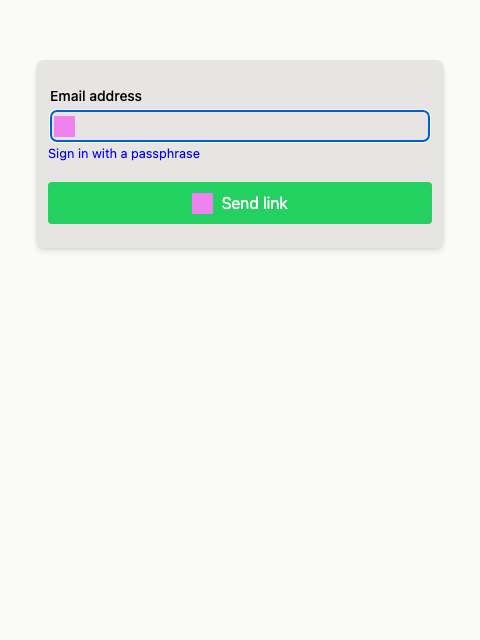
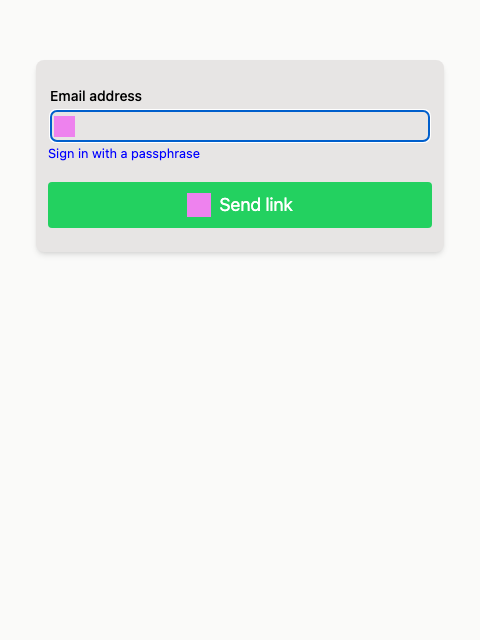
added options to show different providers in different ways

Changed region(s): [[0.0938, 0.2812, 0.9062, 0.375]]

diff --git a/src/lib/views/SocialAuthView.svelte b/src/lib/views/SocialAuthView.svelte
@@ -3,53 +3,20 @@
   import type { Provider, SupabaseClient } from '@supabase/supabase-js'
   import type { AuthTexts } from '../i18n'
   import { messages } from '$lib/messages.svelte';
+  import { providerList } from '$lib/providers'
 
   interface Props {
     supabaseClient: SupabaseClient
     providers: Provider[]
     socialLayout: 'vertical' | 'horizontal'
     socialButtonSize: 'tiny' | 'small' | 'medium' | 'large'
-    socialColors: boolean
     isLinking?: boolean
     getText: (key: keyof AuthTexts, params?: Record<string, any>) => string
   }
 
-  let { supabaseClient, providers, socialLayout, socialButtonSize, socialColors, isLinking, getText }: Props = $props()
+  let { supabaseClient, providers, socialLayout, socialButtonSize, isLinking, getText }: Props = $props()
 
   let loading = $state(false)
-
-  const buttonStyles: Partial<Record<Provider, Record<string, string>>> = {
-    google: {
-      'background-color': '#ce4430',
-      color: 'white',
-    },
-    facebook: {
-      'background-color': '#4267B2',
-      color: 'white',
-    },
-    twitter: {
-      'background-color': '#1DA1F2',
-    },
-    gitlab: {
-      'background-color': '#FC6D27',
-    },
-    github: {
-      'background-color': '#333',
-      color: 'white',
-    },
-    bitbucket: {
-      'background-color': '#205081',
-      color: 'white',
-    },
-    azure: {
-      'background-color': '#0072c6',
-      color: 'white',
-    },
-    discord: {
-      'background-color': '#5865F2',
-      color: 'white',
-    }
-  }
 
   const hasProviders = $derived(providers && providers.length > 0)
 
@@ -74,21 +41,26 @@
     </span>
   {/if}
 
-  <div class="providers flex" class:horizontal={socialLayout == 'horizontal'}>
+  <div class="providers flex" class:horizontal={socialLayout === 'horizontal'}>
     {#each providers as provider}
-      {@const providerName = provider.charAt(0).toUpperCase() + provider.slice(1)}
-      <Button
-        block
-        shadow
-        icon={provider}
-        size={socialButtonSize}
-        style={socialColors ? (buttonStyles[provider] || {}) : {}}
-        onclick={() => handleProviderSignIn(provider)}
-      >
-        {#if socialLayout == 'vertical'}
-          {getText(isLinking ? 'socialLinking' : 'socialSignIn', {provider: providerName})}
-        {/if}
-      </Button>
+      {#if socialLayout === 'vertical'}
+        <Button
+          class="provider-{provider}"
+          block
+          icon={provider}
+          size={socialButtonSize}
+          onclick={() => handleProviderSignIn(provider)}
+        >
+          {getText(isLinking ? 'socialLinking' : 'socialSignIn', {provider: providerList[provider]})}
+        </Button>
+      {:else}
+        <Button
+          class="provider-{provider}"
+          icon={provider}
+          size={socialButtonSize}
+          onclick={() => handleProviderSignIn(provider)}
+        />
+      {/if}
     {/each}
   </div>
 {/if}
@@ -100,6 +72,8 @@
 
   .providers.horizontal {
     flex-direction: row;
+    max-width: 100%;
+    flex-wrap: wrap;
   }
 
   .heading {

diff --git a/src/lib/elements/Icon.svelte b/src/lib/elements/Icon.svelte
@@ -1,26 +1,54 @@
 <script lang="ts">
-  import { KeyIcon, MailIcon, InboxIcon } from 'svelte-feather-icons'
-  import GoogleIcon from '../social-icons/GoogleIcon.svelte'
-  import FacebookIcon from '../social-icons/FacebookIcon.svelte'
-  import TwitterIcon from '../social-icons/TwitterIcon.svelte'
-  import GithubIcon from '../social-icons/GithubIcon.svelte'
-  import GitlabIcon from '../social-icons/GitlabIcon.svelte'
-  import BitbucketIcon from '../social-icons/BitbucketIcon.svelte'
-  import AzureIcon from '../social-icons/AzureIcon.svelte'
-  import DiscordIcon from '../social-icons/DiscordIcon.svelte'
+
+  import key from "virtual:icons/lucide/key"
+  import mail from "virtual:icons/lucide/mail"
+  import inbox from "virtual:icons/lucide/inbox"
+
+  import apple from "virtual:icons/simple-icons/apple"
+  import azure from "virtual:icons/logos/microsoft-icon"
+  import bitbucket from "virtual:icons/logos/bitbucket"
+  import discord from "virtual:icons/logos/discord-icon"
+  import facebook from "virtual:icons/logos/facebook"
+  import figma from "virtual:icons/logos/figma"
+  import fly from "virtual:icons/simple-icons/flydotio"
+  import github from "virtual:icons/logos/github-icon"
+  import gitlab from "virtual:icons/logos/gitlab-icon"
+  import google from "virtual:icons/logos/google-icon"
+  import kakao from "virtual:icons/simple-icons/kakaotalk"
+  import keycloak from "virtual:icons/simple-icons/keycloak"
+  import linkedin from "virtual:icons/logos/linkedin-icon"
+  import notion from "virtual:icons/logos/notion-icon"
+  import slack from "virtual:icons/logos/slack-icon"
+  import spotify from "virtual:icons/logos/spotify-icon"
+  import twitter from "virtual:icons/streamline-logos/x-twitter-logo"
+  import twitch from "virtual:icons/logos/twitch"
+  import workos from "virtual:icons/logos/workos-icon"
+  import zoom from "virtual:icons/logos/zoom-icon"
 
   const map = {
-    mail: MailIcon,
-    key: KeyIcon,
-    inbox: InboxIcon,
-    google: GoogleIcon,
-    facebook: FacebookIcon,
-    twitter: TwitterIcon,
-    github: GithubIcon,
-    gitlab: GitlabIcon,
-    bitbucket: BitbucketIcon,
-    azure: AzureIcon,
-    discord: DiscordIcon,
+    mail,
+    key,
+    inbox,
+    apple,
+    azure,
+    bitbucket,
+    discord,
+    facebook,
+    figma,
+    fly,
+    github,
+    gitlab,
+    google,
+    kakao,
+    keycloak,
+    linkedin,
+    notion,
+    slack,
+    spotify,
+    twitter,
+    twitch,
+    workos,
+    zoom,
   }
 
   interface Props {
@@ -34,5 +62,5 @@
 
 {#if name in map}
   {@const Component = map[name as keyof typeof map]}
-  <Component {size} />
+  <Component width={size} height={size} />
 {/if}

diff --git a/src/routes/Options.svelte b/src/routes/Options.svelte
@@ -1,0 +1,63 @@
+<script lang="ts">
+  import { providerList } from '$lib/providers'
+  import { socialSettings } from '$lib/stores.svelte';
+  import { quintIn } from 'svelte/easing';
+  import { fly } from 'svelte/transition';
+  import XIcon from 'virtual:icons/lucide/x'
+
+  let {
+    providers = $bindable([]),
+    showOptions = $bindable(false)
+  } = $props()
+
+</script>
+
+<div class="max-w-full px-5 pb-5 fixed z-10 top-0 left-0 max-h-screen overflow-y-auto
+  bg-stone-700 prose prose-sm prose-stone prose-invert {showOptions ? 'w-48' : 'w-0'}" transition:fly={{ duration:170, x:-180, easing:quintIn }}>
+  <button class="absolute top-0 left-0 cursor-pointer" onclick={() => showOptions = false}><XIcon width="32" height="32"/></button>
+
+  <h3>Providers</h3>
+  <p class="text-xs leading-tight italic">Only Google and GitHub really function, regardless of which are shown.</p>
+  <div class="field">
+    {#each Object.entries(providerList) as [provider, name]}
+      <label class="block">
+        <input type="checkbox" value={provider} bind:group={providers} />
+        <span class:text-sky-600={['google', 'github'].includes(provider)}>{name}</span>
+      </label>
+    {/each}
+  </div>
+
+  <h3>Options</h3>
+
+  <div class="field my-2">
+    <label class="flex flex-col">
+      <span>Social Layout</span>
+      <select bind:value={$socialSettings.socialLayout}>
+        <option value="vertical">Vertical</option>
+        <option value="horizontal">Horizontal</option>
+      </select>
+    </label>
+  </div>
+
+  <div class="field my-2">
+    <label class="flex flex-col">
+      <span>Social Button Size</span>
+      <select bind:value={$socialSettings.socialButtonSize}>
+        <option value="tiny">Tiny</option>
+        <option value="small">Small</option>
+        <option value="medium">Medium</option>
+        <option value="large">Large</option>
+      </select>
+    </label>
+
+  </div>
+
+
+</div>
+
+<style lang="postcss">
+  @reference "tailwindcss";
+  select {
+    @apply text-sky-600 text-sm;
+  }
+</style>

diff --git a/src/lib/elements/Button.svelte b/src/lib/elements/Button.svelte
@@ -12,7 +12,9 @@
     icon?: string | null
     style?: Record<string, string>
     onclick?: () => void
-    children: Snippet
+    children?: Snippet
+    class?: string
+    [key: string]: any
   }
 
   let {
@@ -26,6 +28,8 @@
     style = {},
     onclick,
     children,
+    class:classText,
+    ...rest
   }: Props = $props()
 
   const styleString = $derived(Object.entries(style).map(([key, value]) => {
@@ -33,15 +37,17 @@
   }).join(';'))
 </script>
 
-<button type={submit ? 'submit' : 'button'} class:block class={size} class:primary style={styleString} onclick={onclick} disabled={disabled || loading}>
+<button type={submit ? 'submit' : 'button'} class="{classText} {size}" class:block class:primary style={styleString} onclick={onclick} disabled={disabled || loading} {...rest}>
   {#if icon}
     <span class="icon flex">
-      <Icon name={icon} size=21/>
+      <Icon name={icon} size={size === 'tiny' ? '16' : size === 'small' ? '18' : size === 'medium' ? '21' : '24'} />
     </span>
   {/if}
-  <span>
-    {@render children?.()}
-  </span>
+  {#if children}
+    <span class="{size === 'tiny' ? 'text-xs' : size === 'small' ? 'text-sm' : size === 'medium' ? 'text-base' : 'text-lg'}">
+      {@render children?.()}
+    </span>
+  {/if}
 </button>
 
 <style>
@@ -50,6 +56,7 @@
     gap: 0.5rem;
     align-items: center;
     position: relative;
+    padding: 0.2rem 0.5rem;
   }
 
   button.large {

diff --git a/src/routes/+page.svelte b/src/routes/+page.svelte
@@ -9,11 +9,14 @@
   import { defaultTranslations } from '$lib/i18n/index'
   import { languages } from './languages'
   import type { PartialSupabaseAuthOptions, SupabaseAuthOptions } from '$lib/options';
+  import GearIcon from 'virtual:icons/lucide/settings'
 
   let locale = $state('en')
 
   // @ts-ignore
   import config from '../../supabase/config.toml'
+  import Options from './Options.svelte';
+  import type { Provider } from '@supabase/supabase-js';
   const authOptions:PartialSupabaseAuthOptions = {
     auth: config?.auth,
     passwordPolicy: {
@@ -23,7 +26,16 @@
     }
   }
 
+  let showOptions = $state(false)
+  let providers = $state(['google', 'github']) as Provider[]
+
 </script>
+
+{#if showOptions}
+  <Options bind:providers bind:showOptions />
+{/if}
+
+<button class:hidden={showOptions} class="cursor-pointer fixed top-0 left-0" onclick={() => showOptions = true}><GearIcon width="32" height="32" /></button>
 
 <div class="mx-auto mt-6 w-120 max-w-full p-5">
   <div class="flex justify-end">
@@ -35,7 +47,7 @@
     {/each}
   </div>
   <div class="py-6 px-3 m-4 shadow-md rounded-lg bg-stone-200 dark:bg-stone-800">
-    <Auth {supabaseClient} {locale} providers={['google', 'github']} {authOptions}>
+    <Auth {supabaseClient} {locale} {providers} {authOptions}>
     </Auth>
   </div>
 </div>

diff --git a/src/lib/providers.ts b/src/lib/providers.ts
@@ -1,0 +1,24 @@
+import type { Provider } from "@supabase/supabase-js";
+
+export const providerList:Partial<Record<Provider,string>> = {
+  apple: 'Apple',
+  bitbucket: 'Bitbucket',
+  discord: 'Discord',
+  facebook: 'Facebook',
+  figma: 'Figma',
+  fly: 'Fly.io',
+  github: 'GitHub',
+  gitlab: 'Gitlab',
+  google: 'Google',
+  kakao: 'KakaoTalk',
+  keycloak: 'Keycloak',
+  linkedin: 'LinkedIn',
+  azure: 'Microsoft',
+  notion: 'Notion',
+  slack: 'Slack',
+  spotify: 'Spotify',
+  twitch: 'Twitch',
+  workos: 'WorkOS',
+  twitter: 'X',
+  zoom: 'Zoom',
+}

diff --git a/src/lib/stores.svelte.ts b/src/lib/stores.svelte.ts
@@ -28,13 +28,11 @@ export const email:Writable<string> = writable('')
 
 export type SocialSettings = {
   socialLayout: 'vertical' | 'horizontal'
-  socialColors: boolean
   socialButtonSize: 'tiny' | 'small' | 'medium' | 'large'
 }
 
 // Social settings
 export const socialSettings:Writable<SocialSettings> = writable({
   socialLayout: 'vertical',
-  socialColors: false,
   socialButtonSize: 'medium',
 })

diff --git a/src/lib/Auth.svelte b/src/lib/Auth.svelte
@@ -48,7 +48,6 @@
     class: classes = '',
     style = '',
     socialLayout = 'vertical',
-    socialColors = false,
     socialButtonSize = 'medium',
     providers = [],
     initialView = 'sign_in_with_password',
@@ -66,7 +65,6 @@
   $socialSettings = {
     ...$socialSettings,
     socialLayout,
-    socialColors,
     socialButtonSize,
   }
 
